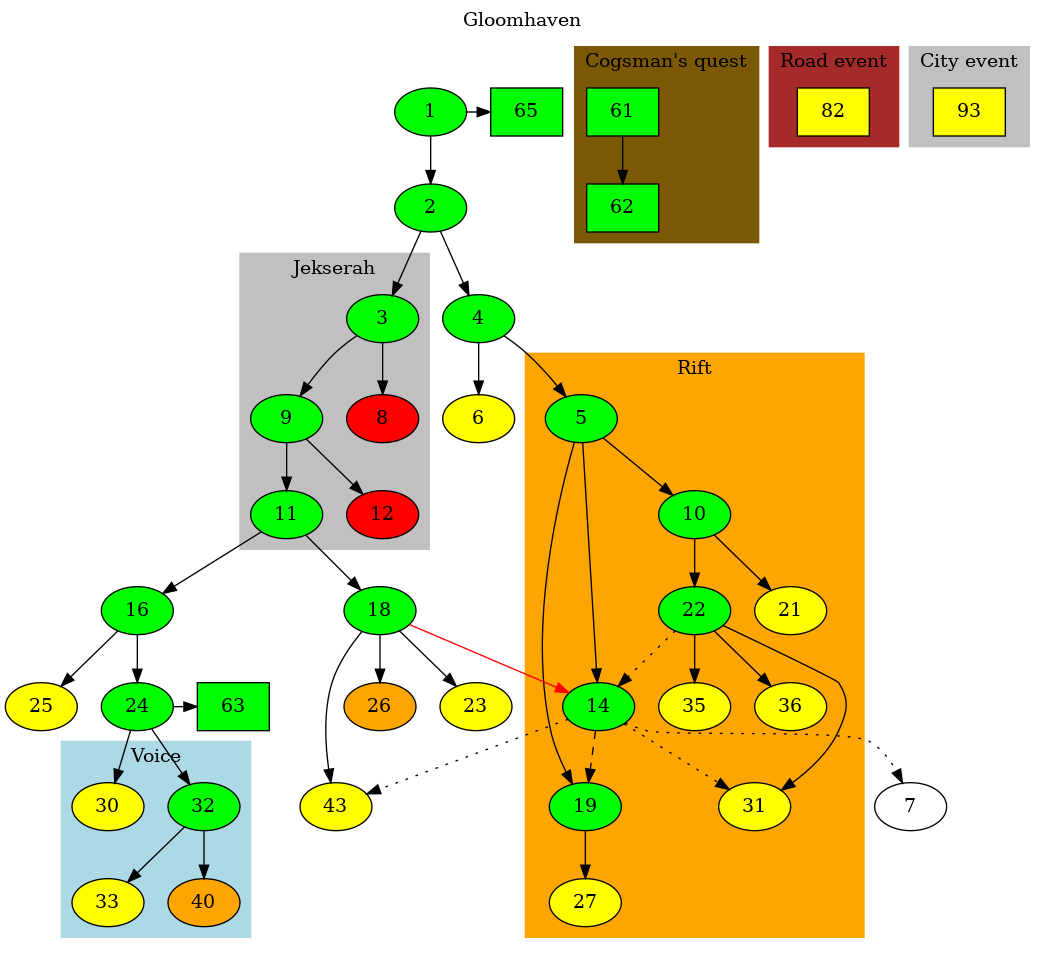
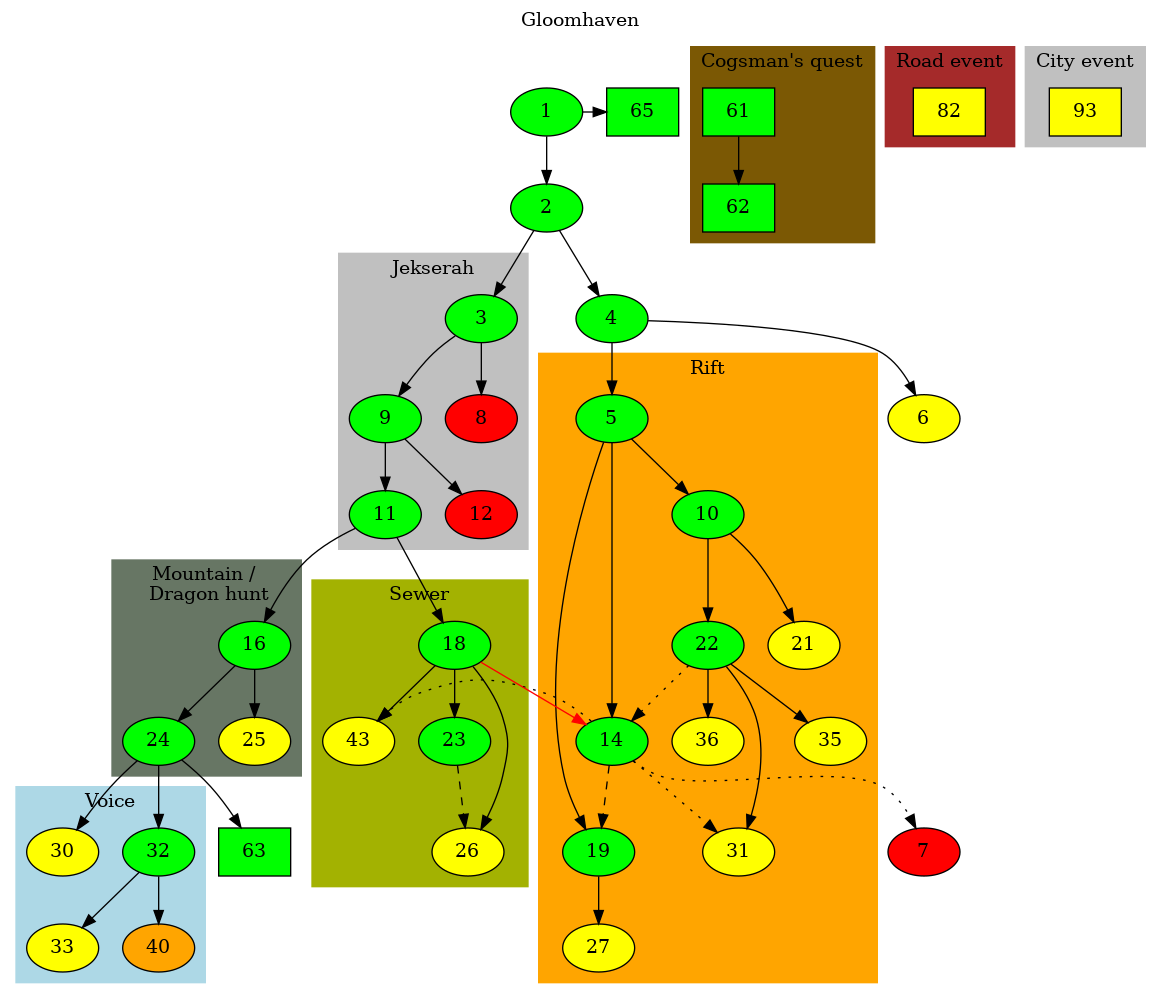
23: Through the Deep ruins: In which door-based mistakes were made by all party members once, to varying degrees of severity, and a desperate synchronised dive for the objectives was executed. Reached Scenario 26. First berserker mission.     More subgraph organisation

diff --git a/README.md b/README.md
@@ -1,17 +1,17 @@
 # Gloomhaven Scenario Tracking (spoilers)
 
-How our party, The Salty Swashbucklers, has explored the legacy boardgame Gloomhaven
+How our party, "The Salty Swashbucklers", has explored the legacy boardgame Gloomhaven
 
 ### Nodes
-Ovals are normal scenarios, rectangles represent side scenarios.
+Ovals: Normal scenarios  
+Rectangles: Side scenarios  
 
-####Colours:
-Green: Complete
-Yellow: Available
-Orange: Available, conditions not met
-Red: Conditions unmeetable
+Green: Complete  
+Yellow: Available  
+Orange: Available, conditions not met  
+Red: Conditions unmeetable  
 
 ### Edges:
-Full arrows represent unlocking, a red arrow means the destination was already unlocked
-Dotted arrows represent a reference.
-Dashed arrows means completing it fulfilled the conditions for another scenario
+Full arrows represent unlocking, a red arrow means the destination was already unlocked  
+Dotted arrows represent a reference  
+Dashed arrows means completing it fulfilled the conditions for another scenario  
